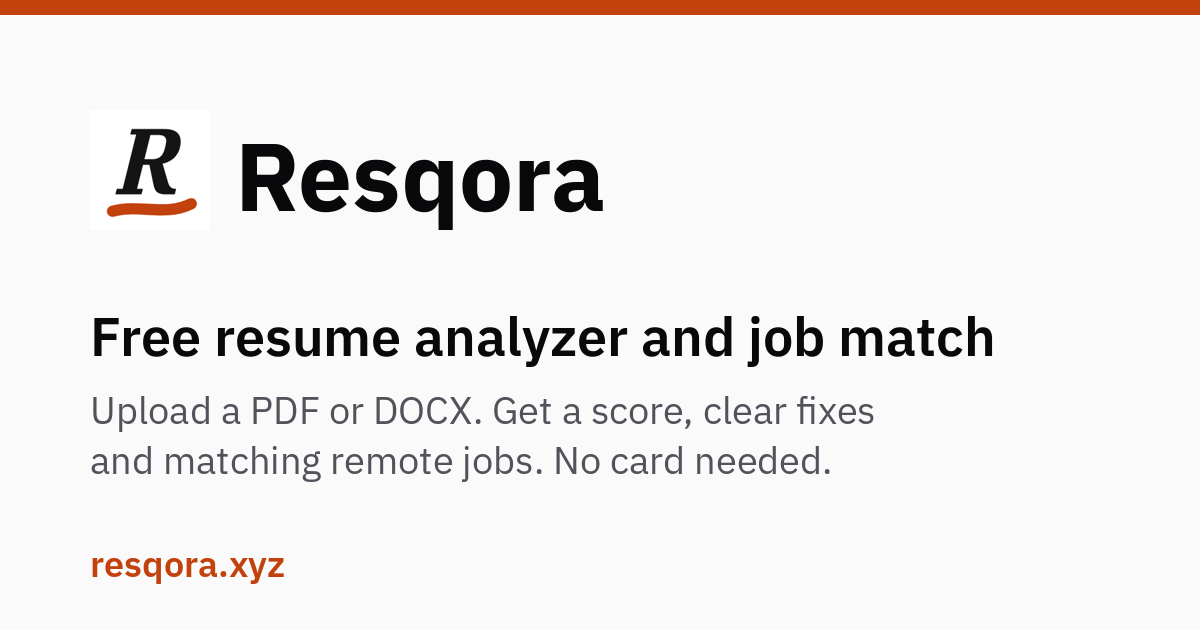
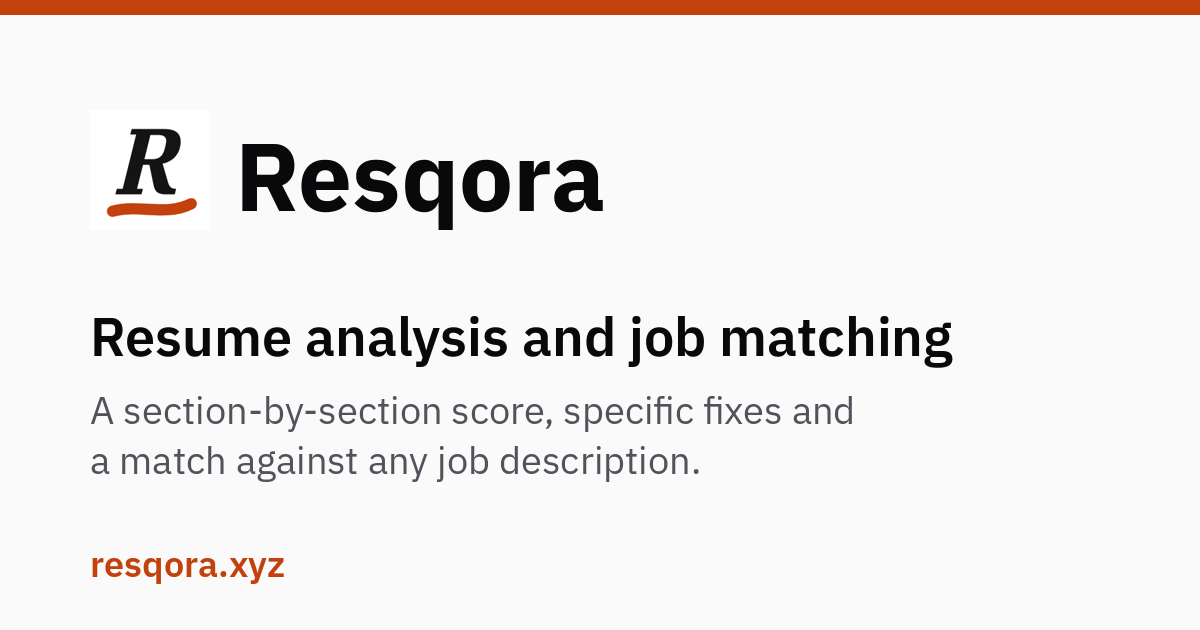
fix: update seo text (title, description, preview image)

Changed region(s): [[0.0617, 0.6333, 0.74, 0.7841], [0.0925, 0.4825, 0.8325, 0.6032]]

diff --git a/resqora-frontend/index.html b/resqora-frontend/index.html
@@ -12,14 +12,14 @@
       const t = localStorage.getItem('resqora_theme')
       if (t === 'dark' || (!t && matchMedia('(prefers-color-scheme: dark)').matches)) document.documentElement.classList.add('dark')
     </script>
-    <title>Resqora: Free Resume Analyzer and Job Match</title>
-    <meta name="description" content="Upload your resume (PDF or DOCX) to get a free score, clear fixes and matching remote jobs. No sign-up fees, no card." />
+    <title>Resqora: Resume Analysis and Job Matching</title>
+    <meta name="description" content="Upload your resume (PDF or DOCX) for a section-by-section score, specific fixes and a match against any job description, plus an optional AI summary." />
     <link rel="canonical" href="https://resqora.xyz/" />
     <meta property="og:type" content="website" />
     <meta property="og:site_name" content="Resqora" />
     <meta property="og:url" content="https://resqora.xyz/" />
-    <meta property="og:title" content="Resqora: Free Resume Analyzer and Job Match" />
-    <meta property="og:description" content="Upload your resume (PDF or DOCX) to get a free score, clear fixes and matching remote jobs. No sign-up fees, no card." />
+    <meta property="og:title" content="Resqora: Resume Analysis and Job Matching" />
+    <meta property="og:description" content="Upload your resume (PDF or DOCX) for a section-by-section score, specific fixes and a match against any job description, plus an optional AI summary." />
     <meta property="og:image" content="https://resqora.xyz/og-image.png" />
     <meta property="og:image:width" content="1200" />
     <meta property="og:image:height" content="630" />
